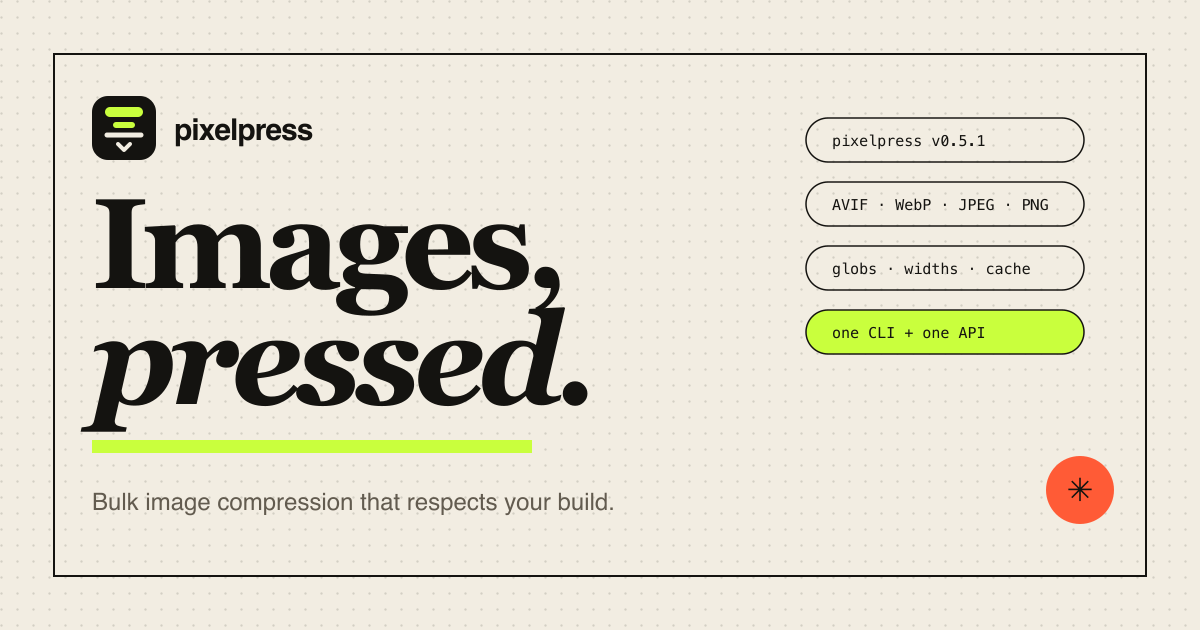
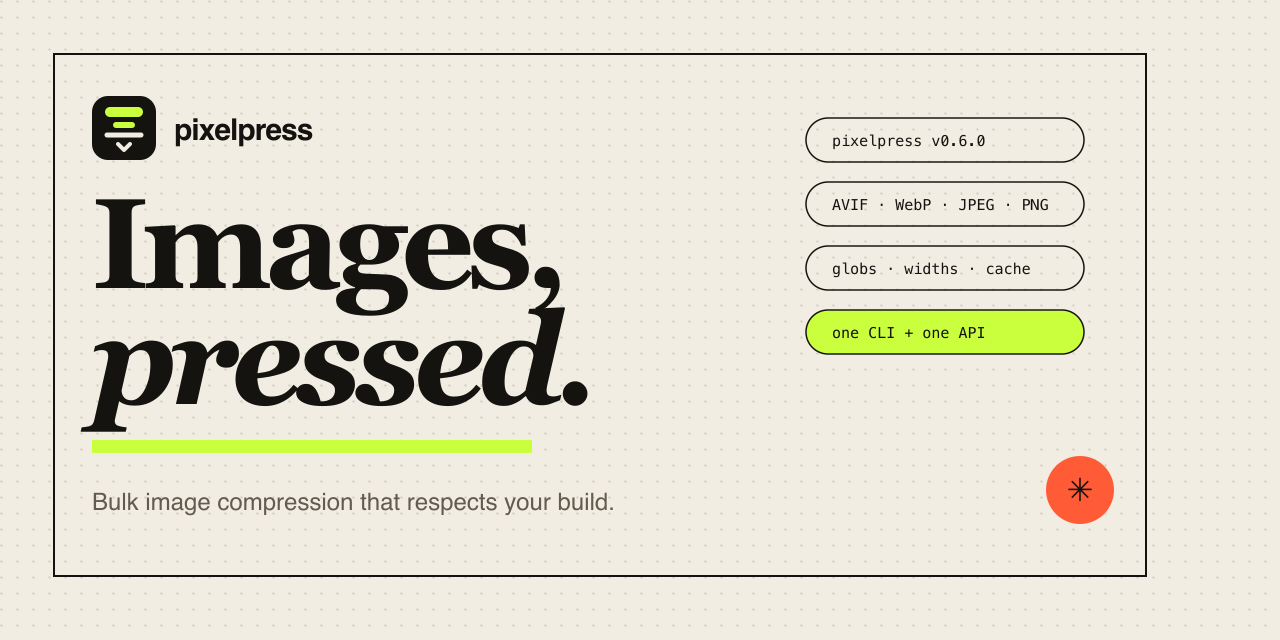
chore: release 0.6.0

diff --git a/site/index.html b/site/index.html
@@ -32,7 +32,7 @@
       <a class="nav-ext" href="https://github.com/aotr/pixelpress">GitHub ↗</a>
       <a class="nav-ext" href="https://www.npmjs.com/package/pixelpress">npm ↗</a>
     </nav>
-    <span class="version-pill">v0.5.1</span>
+    <span class="version-pill">v0.6.0</span>
   </div>
 </header>
 
@@ -54,7 +54,7 @@
         </div>
         <p class="hero-note"><strong>Convert any image. Install nothing.</strong> npx fetches pixelpress, runs it, and gets out of the way. Add it to package.json only when you want it in the build.</p>
         <div class="hero-meta">
-          <span>v0.5.1</span>
+          <span>v0.6.0</span>
           <span>28 tests</span>
           <span>1 runtime dependency</span>
           <span>MIT</span>
@@ -342,7 +342,7 @@ console.log(report.totals.savedPercent);</pre>
     </div>
     <div class="footer-bottom">
       <span>© <span data-year>2026</span> Animesh Chakraborty · MIT</span>
-      <span>v0.5.1 · Node 22.5+</span>
+      <span>v0.6.0 · Node 22.5+</span>
     </div>
   </div>
 </footer>

diff --git a/site/examples.html b/site/examples.html
@@ -29,7 +29,7 @@
       <a class="nav-ext" href="https://github.com/aotr/pixelpress">GitHub ↗</a>
       <a class="nav-ext" href="https://www.npmjs.com/package/pixelpress">npm ↗</a>
     </nav>
-    <span class="version-pill">v0.5.1</span>
+    <span class="version-pill">v0.6.0</span>
   </div>
 </header>
 
@@ -299,7 +299,7 @@ if (report.failed.length) process.exitCode = 1;</pre>
     </div>
     <div class="footer-bottom">
       <span>© <span data-year>2026</span> Animesh Chakraborty · MIT</span>
-      <span>v0.5.1 · Node 22.5+</span>
+      <span>v0.6.0 · Node 22.5+</span>
     </div>
   </div>
 </footer>

diff --git a/site/api.html b/site/api.html
@@ -29,7 +29,7 @@
       <a class="nav-ext" href="https://github.com/aotr/pixelpress">GitHub ↗</a>
       <a class="nav-ext" href="https://www.npmjs.com/package/pixelpress">npm ↗</a>
     </nav>
-    <span class="version-pill">v0.5.1</span>
+    <span class="version-pill">v0.6.0</span>
   </div>
 </header>
 
@@ -304,7 +304,7 @@ function summarize(result: OptimizeResult) {
     </div>
     <div class="footer-bottom">
       <span>© <span data-year>2026</span> Animesh Chakraborty · MIT</span>
-      <span>v0.5.1 · Node 22.5+</span>
+      <span>v0.6.0 · Node 22.5+</span>
     </div>
   </div>
 </footer>

diff --git a/site/cli.html b/site/cli.html
@@ -29,7 +29,7 @@
       <a class="nav-ext" href="https://github.com/aotr/pixelpress">GitHub ↗</a>
       <a class="nav-ext" href="https://www.npmjs.com/package/pixelpress">npm ↗</a>
     </nav>
-    <span class="version-pill">v0.5.1</span>
+    <span class="version-pill">v0.6.0</span>
   </div>
 </header>
 
@@ -335,7 +335,7 @@ pixelpress photos -o dist -r --watch</pre>
     </div>
     <div class="footer-bottom">
       <span>© <span data-year>2026</span> Animesh Chakraborty · MIT</span>
-      <span>v0.5.1 · Node 22.5+</span>
+      <span>v0.6.0 · Node 22.5+</span>
     </div>
   </div>
 </footer>

diff --git a/PLAN.md b/PLAN.md
@@ -124,18 +124,19 @@ stdin/stdout piping.
 
 - Package homepage and README now point at the GitHub Pages site.
 
-## 0.6
+## 0.6 — shipped
 
 - **Plugin hooks**: `hooks.beforeEncode(pipeline, context)` modifies the sharp
   pipeline before encoding (e.g. composite a watermark); `hooks.afterEncode`
   inspects or replaces the final bytes. API and JS-config only; covered by the
   cache fingerprint.
+
+## 0.7
+
 - **Animated AVIF** when sharp/libvips exposes reliable frame output.
 - **Perceptual quality targeting**: a Butteraugli/SSIM option in addition to
   `--max-bytes`.
 - **Framework adapters**: Vite plugin, Next.js loader, Astro integration.
-- **Plugin hooks**: optional pre/post transform functions for the API (e.g.
-  watermarking).
 - **Better watch fallback**: chokidar-style recursive watching on platforms
   without recursive `fs.watch`, plus config-file reloads.
 

diff --git a/COMPARISON.md b/COMPARISON.md
@@ -1,7 +1,7 @@
 # How pixelpress compares
 
 Versions checked: sharp-cli 6.1, imagemin-cli 8.0, Squoosh CLI 0.7,
-vite-imagetools 12.0, @11ty/eleventy-img 7.1, pixelpress 0.5 (November 2026).
+vite-imagetools 12.0, @11ty/eleventy-img 7.1, pixelpress 0.6 (November 2026).
 
 `✅` first-class, `◐` possible with extra setup, `—` not a feature.
 
